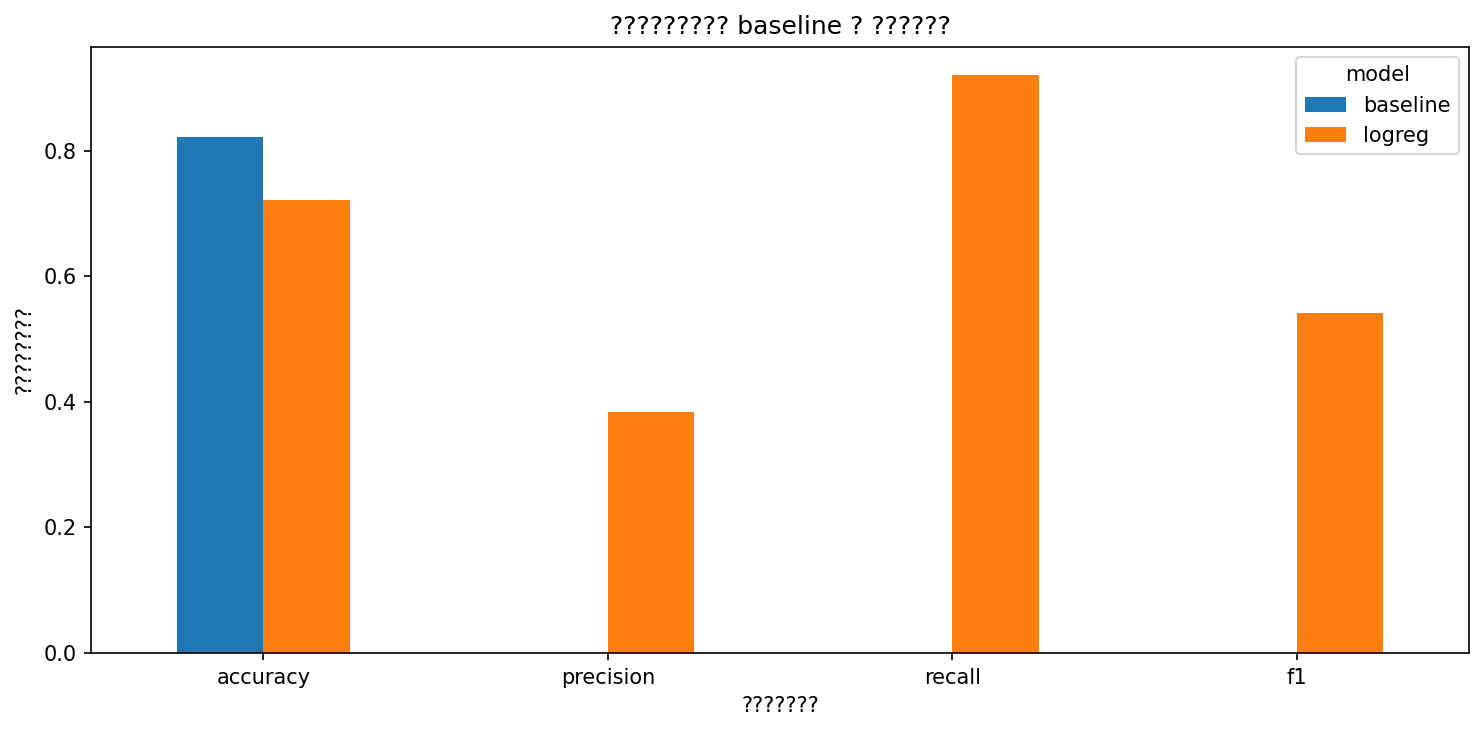
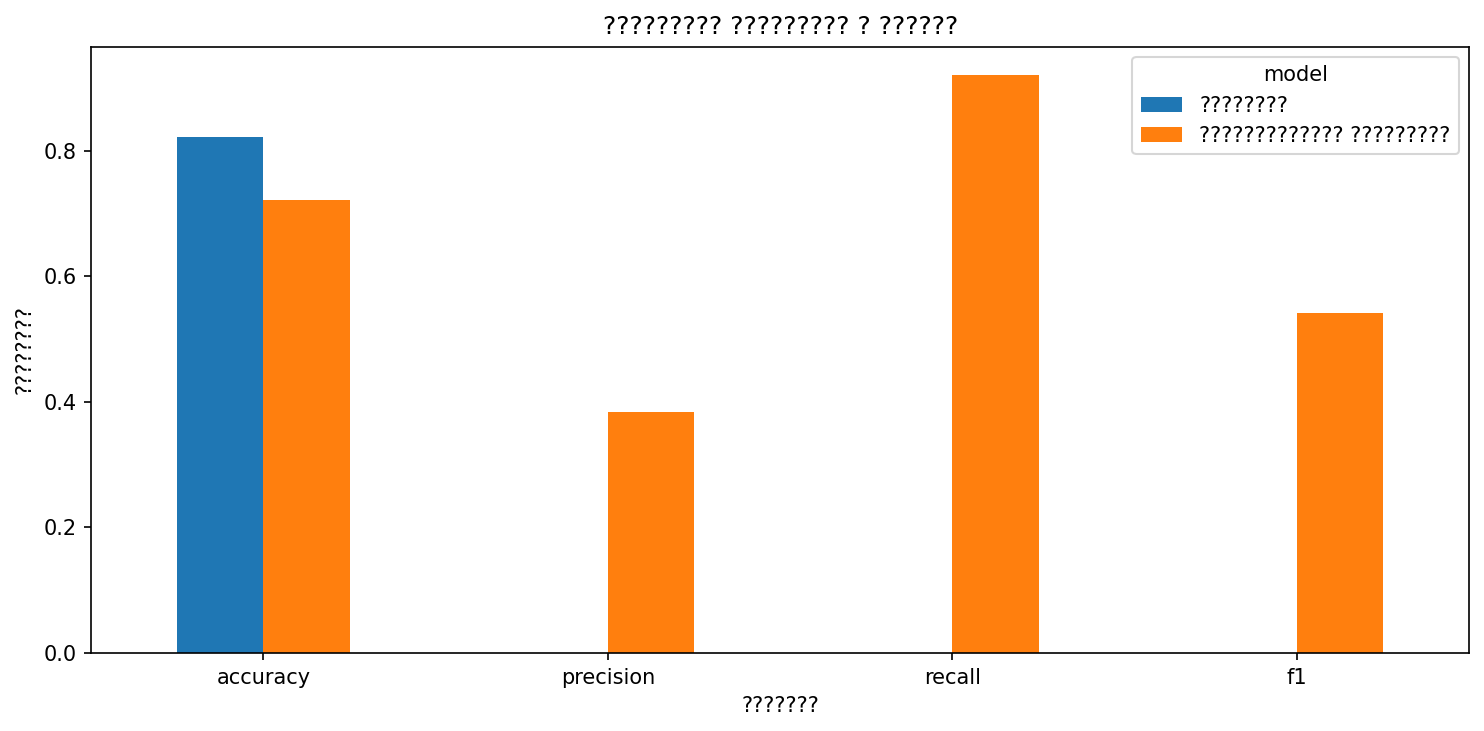
final: собрал README, LLM summary и финальный сценарий запуска + чистка репо

Changed region(s): [[0.7439, 0.0903, 0.9919, 0.2107], [0.403, 0.0, 0.6509, 0.0602]]

diff --git a/src/llm_summary.py b/src/llm_summary.py
@@ -85,10 +85,10 @@ def build_context(cfg: dict, mart: pd.DataFrame, dq_report: dict) -> dict:
             "fail_count": str(dq_report["summary"]["counts"]["FAIL"]),
         },
         "constraints": [
-            "Do not invent numbers.",
-            "Use only provided metrics.",
-            "If uncertain, say uncertain.",
-            "Do not calculate new metrics.",
+            "Не придумывать числа.",
+            "Использовать только переданные метрики.",
+            "Если данных не хватает, прямо написать об этом.",
+            "Не считать новые метрики внутри ответа.",
         ],
     }
     return context
@@ -167,7 +167,7 @@ def verify_summary(summary: str, context: dict) -> tuple[bool, list[str]]:
     return len(bad) == 0, bad
 
 
-def fallback_summary(context: dict) -> str:
+def local_summary(context: dict) -> str:
     c = context
     m = c["computed_metrics"]
     q = c["quality_status"]
@@ -175,9 +175,9 @@ def fallback_summary(context: dict) -> str:
     top_day = m["top_precip_days"][0]
 
     return (
-        "# LLM Summary\n\n"
-        "_Ниже сохранен безопасный fallback-текст, потому что OpenAI API ключ не задан "
-        "или ответ модели не прошел проверку чисел._\n\n"
+        "# Сводка по mart\n\n"
+        "_Сводка собрана локально из уже посчитанных агрегатов. Внешний API не вызывался, "
+        "если ключ не задан или ответ не прошел проверку чисел._\n\n"
         f"- Период данных: {d['period_start']} - {d['period_end']}. В mart сейчас {c['schema_hints']['row_count']} строк.\n"
         f"- Средняя дневная температура по всему периоду: {m['t_mean_avg']}. Минимум {m['t_mean_min']} был {m['t_mean_min_date']}, максимум {m['t_mean_max']} был {m['t_mean_max_date']}.\n"
         f"- Сумма осадков за период: {m['p_sum_total']}. Самый дождливый день: {top_day['date']} с {top_day['P_sum']}.\n"
@@ -220,10 +220,10 @@ def main() -> None:
     api_key = os.getenv("OPENAI_API_KEY", "").strip()
     model = os.getenv("OPENAI_MODEL", "gpt-4.1-mini").strip() or "gpt-4.1-mini"
 
-    mode = "fallback_no_key"
-    verification = "not_checked"
-    notes = "OPENAI_API_KEY not set"
-    summary = fallback_summary(context)
+    mode = "local_summary"
+    verification = "not_needed"
+    notes = "API key is not set"
+    summary = local_summary(context)
 
     if api_key:
         try:
@@ -233,13 +233,13 @@ def main() -> None:
                 mode = "llm_verified"
                 verification = "passed"
                 notes = "all numeric tokens matched context"
-                summary = "# LLM Summary\n\n" + llm_text.strip() + "\n"
+                summary = "# Сводка по mart\n\n" + llm_text.strip() + "\n"
             else:
-                mode = "fallback_after_failed_verification"
+                mode = "local_summary_after_check_failed"
                 verification = "failed"
                 notes = f"unexpected tokens: {', '.join(bad_tokens[:10])}"
         except Exception as e:
-            mode = "fallback_after_api_error"
+            mode = "local_summary_after_api_error"
             verification = "failed"
             notes = str(e).replace("|", "/")
 

diff --git a/src/dq.py b/src/dq.py
@@ -204,9 +204,9 @@ def save_json_report(report: dict, path: Path) -> None:
 
 def save_markdown_report(report: dict, path: Path) -> None:
     lines = [
-        "# DQ Report",
+        "# DQ-отчет",
         "",
-        f"- Overall status: **{report['summary']['overall_status']}**",
+        f"- Итоговый статус: **{report['summary']['overall_status']}**",
         f"- PASS: {report['summary']['counts']['PASS']}",
         f"- FAIL: {report['summary']['counts']['FAIL']}",
         f"- WARNING: {report['summary']['counts']['WARNING']}",
@@ -214,7 +214,7 @@ def save_markdown_report(report: dict, path: Path) -> None:
     ]
 
     for layer, results in report["layers"].items():
-        lines.append(f"## Layer: {layer}")
+        lines.append(f"## Слой: {layer}")
         lines.append("")
         for result in results:
             lines.append(f"- {result['name']}: {result['status']} ({result['severity']})")
@@ -233,9 +233,9 @@ def _safe_write_text(path: Path, text: str) -> None:
     try:
         os.replace(tmp_path, path)
     except PermissionError:
-        fallback = path.with_name(f"{path.stem}_latest{path.suffix}")
-        tmp_path.replace(fallback)
-        print(f"warning: report file was locked, saved fallback copy: {fallback}")
+        backup_path = path.with_name(f"{path.stem}_latest{path.suffix}")
+        tmp_path.replace(backup_path)
+        print(f"warning: отчет был занят, копия сохранена: {backup_path}")
 
 
 def inject_demo_issues(dataframes: dict[str, pd.DataFrame]) -> dict[str, pd.DataFrame]:

diff --git a/docs/Implementation_Plan.md b/docs/Implementation_Plan.md
@@ -1,36 +1,28 @@
 ## Схема данных
 
-raw:
-JSON ответ API без изменений
+`raw` - исходный JSON-ответ API, без правок.
 
-normalized:
-табличный слой после очистки и приведения типов
-одна строка = одно наблюдение (час)
+`normalized` - очищенная таблица после `transform`. Одна строка здесь - одно часовое наблюдение по городу.
 
-mart:
-агрегированная витрина по дням
-содержит KPI (средняя температура, осадки, ветер, дождливые часы)
-используется для анализа и визуализации
+`mart` - дневная витрина для анализа. В ней уже собраны основные показатели: средняя температура, сумма осадков, максимум ветра и количество дождливых часов.
 
-## Почему слои разделены
+## Зачем разделены слои
 
-Разделение нужно для:
-- raw - хранит оригинальные данные (можно перепроверить)
-- normalized - очищенные данные
-- mart - быстрый анализ и KPI
+Разделение простое:
+- `raw` нужен, чтобы всегда можно было вернуться к исходному ответу API
+- `normalized` нужен для чистых почасовых данных
+- `mart` нужен, чтобы не считать дневные метрики каждый раз заново
 
-Если делать всё в одном файле:
-- сложно отлаживать
-- нельзя переиспользовать данные
-- выше риск ошибок
+Если держать все в одном файле, сложнее искать ошибки и проверять, на каком этапе данные испортились.
 
-## Инкрементальность и идемпотентность
+## Full и incremental режимы
 
-- Full режим используется для полной пересборки данных 
-Данные извлекаются за весь период из конфигурации, слой normalized и mart пересоздаются полностью, а предыдущие результаты перезаписываются. 
-- Incremental режим обрабатывает только новые данные, начиная с последнего сохранённого watermark, добавляет их в систему и исключает дублирование за счёт бизнес ключа
+`full` полностью пересобирает данные за период из конфига. Старые `normalized` и `mart` при этом перезаписываются.
 
-Состояние пайплайна хранится в файле data/state.json, где сохраняются last_watermark (последняя обработанная временная метка) и last_run (время последнего запуска) 
-Business key для слоя normalized определяется как комбинация (city_id, ts), так как она однозначно определяяет каждую запись по городу и времени
+`incremental` берет только новые данные после последнего `watermark`. Дубли отсекаются по бизнес-ключу.
 
-Watermark обновляется только после успешного завершения всех этапов пайплайна, включая загрузку и формирование витрины, чтобы избежать потери данных при сбоях. Идемпотентность обеспечивается за счёт дедупликации по бизнес-ключу, пересоздания витрины в full режиме и корректной incremental логики без повторной обработки уже загруженных данных
+Состояние пайплайна лежит в `data/state.json`. Там хранятся `last_watermark` и `last_run`.
+
+Бизнес-ключ для `normalized` - пара `city_id` и `ts`. По ним можно однозначно понять, к какому городу и часу относится запись.
+
+`watermark` обновляется только после успешного завершения пайплайна. Так меньше риск потерять данные, если загрузка или сборка витрины упали в середине.

diff --git a/docs/ml/week13_summary.md b/docs/ml/week13_summary.md
@@ -1,4 +1,4 @@
-# Week 13 ML
+# Неделя 13. Мини-модель
 
 Здесь взят простой сценарий A: классификация дождливого часа.
 
@@ -7,7 +7,7 @@
 Цель:
 - предсказать, будет ли час дождливым
 
-Target:
+Целевая колонка:
 - `is_rainy_hour = 1`, если `precipitation > 0`
 
 Признаки:
@@ -16,28 +16,28 @@ Target:
 - `wind_speed_10m`
 
 Что специально не брали:
-- `precipitation` не включал в `X`, потому что это и есть источник target, иначе была бы прямая утечка
+- `precipitation` не включал в `X`, потому что из него сделана целевая колонка, иначе была бы прямая утечка
 - `ts` не использовал как числовой признак, чтобы не городить лишнюю историю на маленьких данных
 
 ## Как делил данные
 
-Так как данные временные, split только по времени:
-- train: первые 80% строк
-- test: последние 20% строк
+Так как данные временные, деление только по времени:
+- обучение: первые 80% строк
+- проверка: последние 20% строк
 
 То есть модель учится на прошлом и проверяется на будущем.
 
-## Baseline и модель
+## Бейзлайн и модель
 
-Baseline:
+Бейзлайн:
 - `DummyClassifier(strategy="most_frequent")`
 
 Модель:
 - `LogisticRegression`
 
-## Метрики на test
+## Метрики на проверочной части
 
-Baseline:
+Бейзлайн:
 - Accuracy: `0.8214`
 - Precision: `0.0000`
 - Recall: `0.0000`
@@ -51,25 +51,25 @@ LogisticRegression:
 
 ## Как это интерпретировать
 
-По accuracy baseline выше, но это обманчиво, потому что он почти всегда говорит "дождя нет".  
-Для такой задачи важнее то, что baseline вообще не находит дождливые часы: у него `Recall = 0` и `F1 = 0`.
+По accuracy бейзлайн выше, но это обманчиво, потому что он почти всегда говорит "дождя нет".  
+Для такой задачи важнее то, что бейзлайн вообще не находит дождливые часы: у него `Recall = 0` и `F1 = 0`.
 
 Простая логистическая регрессия хуже по accuracy, зато:
 - реально находит дождливые часы
 - дает высокий recall
-- заметно лучше baseline по F1
+- заметно лучше бейзлайна по F1
 
 ## Вывод
 
 Если цель просто максимизировать accuracy, то такая модель не нужна.  
-Если цель — не пропускать дождливые часы, то даже простая модель уже полезнее baseline.
+Если цель - не пропускать дождливые часы, то даже простая модель уже полезнее бейзлайна.
 
 Честный вывод такой:
-- как минимальный аналитический baseline это нормально
+- как минимальная аналитическая проверка это нормально
 - модель что-то ловит и не сводится к угадыванию самого частого класса
 - но данных мало, поэтому делать сильные выводы рано
 
-Что можно улучшить дальше:
+Что проверить дальше:
 - добавить лаговые признаки по погоде
 - попробовать более аккуратный подбор порога
 - проверить еще одну простую модель

diff --git a/docs/data_dictionary.md b/docs/data_dictionary.md
@@ -1,4 +1,4 @@
-# Data Dictionary for mart
+# Словарь данных для mart
 
 Этот файл описывает витрину `mart` не как схему для разработчика, а как набор полей, с которыми будет работать человек в анализе.
 
@@ -7,8 +7,8 @@
 - текущий город в проекте: `JP_TYO` / Токио
 - дата считается в локальной таймзоне `Asia/Tokyo`
 
-| column | business meaning | unit | example / note |
-|--------|------------------|------|----------------|
+| колонка | смысл | единица | пример / примечание |
+|---------|-------|---------|--------------------|
 | date | День, к которому относятся агрегированные погодные метрики | local date | Пример: `2026-02-25`. Это не timestamp, а именно календарная дата Токио |
 | city_id | Код города, для которого рассчитаны метрики | identifier | Сейчас в данных только `JP_TYO` |
 | T_mean | Средняя температура за день. Нужна, чтобы смотреть общую дневную динамику, а не отдельные часовые скачки | `°C` | Если в течение дня были значения 2, 4 и 6, то `T_mean` будет средним по всем часовым наблюдениям |
@@ -26,4 +26,4 @@
 ## Где эти поля создаются в коде
 
 - `date` получается из `normalized.ts`
-- `T_mean`, `P_sum`, `wind_max`, `rainy_hours` собираются в `build_mart()` в [transform.py](/d:/progscode_2semestr/python_programming/src/transform.py:51)
+- `T_mean`, `P_sum`, `wind_max`, `rainy_hours` собираются в `build_mart()` в `src/transform.py`

diff --git a/docs/Data_Contract.md b/docs/Data_Contract.md
@@ -9,7 +9,7 @@
 Интерпретация времени:
 - временные метки из API приходят в локальном времени Токио
 - `normalized.ts` хранит локальный timestamp в `Asia/Tokyo`
-- `mart.date` — это локальная календарная дата, полученная из `normalized.ts`
+- `mart.date` - это локальная календарная дата, полученная из `normalized.ts`
 
 Гранулярность слоев:
 - `normalized`: 1 строка = 1 почасовое погодное наблюдение по одному городу
@@ -94,9 +94,9 @@
 - `rainy_hours = COUNT(hour where precipitation > 0)` по `date, city_id`
 
 Почему здесь важны единицы измерения:
-- `P_sum` — это сумма, и она зависит от выбранной гранулярности. Если перепутать `mm` за час и `mm` за день, метрика будет интерпретироваться неправильно.
+- `P_sum` - это сумма, и она зависит от выбранной гранулярности. Если перепутать `mm` за час и `mm` за день, метрика будет интерпретироваться неправильно.
 - `wind_max` использует ту же единицу, что и почасовой источник, поэтому его нельзя напрямую сравнивать с данными в м/с без пересчета.
-- `T_mean` — это среднее значение, а не мгновенная температура в конкретный момент.
+- `T_mean` - это среднее значение, а не мгновенная температура в конкретный момент.
 
 ## Контроль контракта и DQ
 

diff --git a/docs/dq_report_broken.md b/docs/dq_report_broken.md
@@ -1,12 +1,15 @@
-# DQ Report
+# DQ-отчет
 
-- Overall status: **FAIL**
-- PASS: 10
+- Итоговый статус: **FAIL**
+- PASS: 12
 - FAIL: 4
 - WARNING: 3
 
-## Layer: normalized
+## Слой: normalized
 
+- normalized_expected_columns: PASS (FAIL)
+  Причина: Список колонок совпадает с контрактом
+  Детали: {"columns": ["ts", "temperature_2m", "relative_humidity_2m", "precipitation", "wind_speed_10m", "city_id"]}
 - normalized_not_empty: PASS (FAIL)
   Причина: Таблица не пустая
   Детали: {"row_count": 697}
@@ -35,8 +38,11 @@
   Причина: Есть значения вне допустимого списка
   Детали: {"column": "city_id", "allowed": ["JP_TYO"], "invalid_rows": 1, "sample": [{"city_id": NaN}]}
 
-## Layer: mart
+## Слой: mart
 
+- mart_expected_columns: PASS (FAIL)
+  Причина: Список колонок совпадает с контрактом
+  Детали: {"columns": ["date", "city_id", "T_mean", "P_sum", "wind_max", "rainy_hours"]}
 - mart_not_empty: PASS (FAIL)
   Причина: Таблица не пустая
   Детали: {"row_count": 29}

diff --git a/docs/llm/summary.md b/docs/llm/summary.md
@@ -1,6 +1,6 @@
-# LLM Summary
+# Сводка по mart
 
-_Ниже сохранен безопасный fallback-текст, потому что OpenAI API ключ не задан или ответ модели не прошел проверку чисел._
+_Сводка собрана локально из уже посчитанных агрегатов. Внешний API не вызывался, если ключ не задан или ответ не прошел проверку чисел._
 
 - Период данных: 2026-02-01 - 2026-03-01. В mart сейчас 29 строк.
 - Средняя дневная температура по всему периоду: 7.72. Минимум -1.77 был 2026-02-08, максимум 17.59 был 2026-02-23.

diff --git a/docs/dq_report.md b/docs/dq_report.md
@@ -1,11 +1,11 @@
-# DQ Report
+# DQ-отчет
 
-- Overall status: **PASS**
+- Итоговый статус: **PASS**
 - PASS: 19
 - FAIL: 0
 - WARNING: 0
 
-## Layer: normalized
+## Слой: normalized
 
 - normalized_expected_columns: PASS (FAIL)
   Причина: Список колонок совпадает с контрактом
@@ -38,7 +38,7 @@
   Причина: Недопустимых значений не найдено
   Детали: {"column": "city_id", "allowed": ["JP_TYO"]}
 
-## Layer: mart
+## Слой: mart
 
 - mart_expected_columns: PASS (FAIL)
   Причина: Список колонок совпадает с контрактом

diff --git a/docs/LLM_Usage_Log.md b/docs/LLM_Usage_Log.md
@@ -1,3 +1,3 @@
 | timestamp_utc | mode | model | verification | notes |
 |---|---|---|---|---|
-| 2026-05-30 11:46:12 | fallback_no_key | gpt-4.1-mini | not_checked | OPENAI_API_KEY not set |
+| 2026-05-30 12:03:18 | local_summary | gpt-4.1-mini | not_needed | API key is not set |
